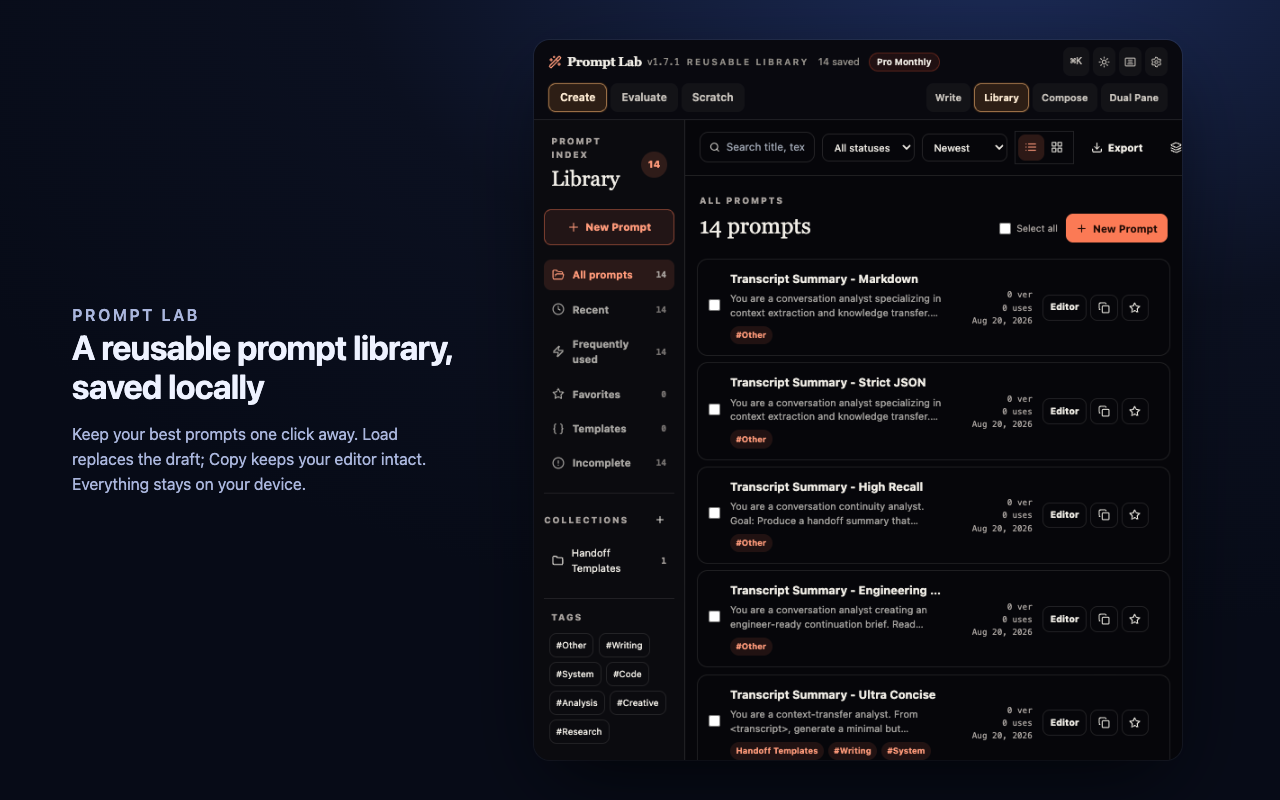
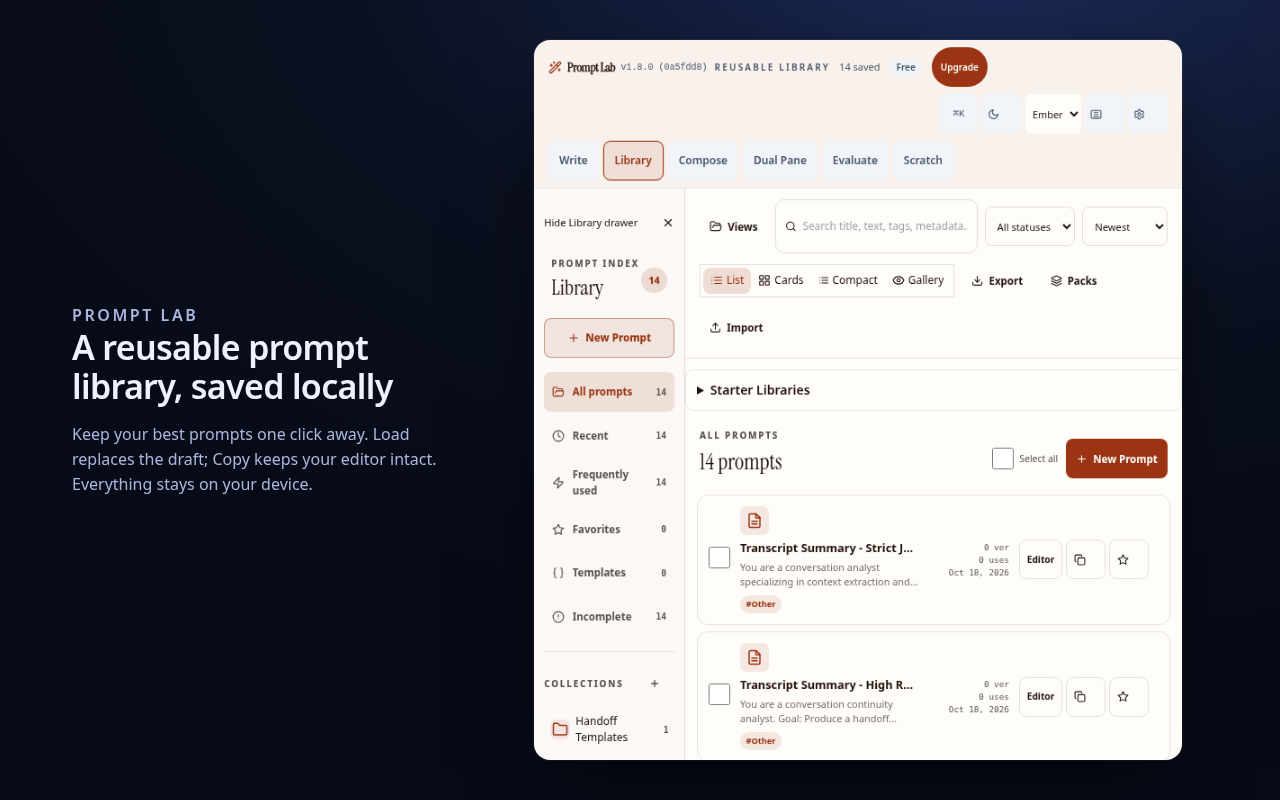
docs(cws): v1.8.0 Chrome Web Store listing readiness
- Regenerate CWS screenshots from the v1.8.0 release-identity build in the
  Free state; stop seeding a Pro billing badge the extension cannot sell.
- Screenshot 5 caption: replace 'no telemetry' with 'analytics off by
  default' (opt-in analytics exists).
- Listing copy: category Developer Tools (Productivity no longer exists),
  summary tied to manifest description, Capture Page and privacy lines,
  pricing note.
- Permission justifications: add activeTab, scripting and promptlab.tools
  with code locations.
- Privacy policy (web, docs mirror, extension source): disclose Capture Page.
- store-assets README and submission checklist: release build command and
  remaining gaps.

diff --git a/docs/privacy.html b/docs/privacy.html
@@ -227,7 +227,7 @@ footer a {
 <main class="wrapper" id="main-content" tabindex="-1">
 
 <h1>Privacy Policy</h1>
-<p class="subtitle">Last updated: August 6, 2026</p>
+<p class="subtitle">Last updated: October 18, 2026</p>
 
 <h2>Local-First Architecture</h2>
 <p>Prompt Lab stores prompts, API keys, settings, and experiment results locally on your device. Those artifacts do not leave your browser unless you explicitly send a request to an AI provider.</p>
@@ -245,6 +245,9 @@ footer a {
 
 <h2>AI Provider Requests</h2>
 <p>When you run a prompt, Prompt Lab sends your input to the provider API you selected. In extension and desktop environments, that traffic is direct. In the hosted web app, traffic passes through a narrow proxy that validates the target domain and forwards the request. Each provider has its own privacy policy and data handling practices. Prompt Lab does not store your prompts or responses in a developer-controlled backend.</p>
+
+<h2>Chrome Extension Page Capture</h2>
+<p>The Chrome extension has a Capture Page button. Only when you click it, the extension reads the selected text, title, and URL of the tab you are viewing, using Chrome&rsquo;s <code>activeTab</code> and <code>scripting</code> permissions, and inserts them into your draft as context. Captured text stays on your device unless you run a prompt that includes it, in which case it is sent to the AI provider you selected. The extension does not read pages in the background, keep a browsing history, or send captured page content to Prompt Lab servers.</p>
 
 <h2>Billing and Pro Access</h2>
 <p>Prompt Lab uses Stripe for checkout, subscription management, and customer portal flows. If you start a Pro upgrade, Prompt Lab and Stripe process billing metadata such as your billing email, Stripe customer ID, subscription status, and configured Prompt Lab price IDs. Prompt Lab uses that metadata to sync Pro access locally on your device.</p>

diff --git a/prompt-lab-source/prompt-lab-web/public/privacy.html b/prompt-lab-source/prompt-lab-web/public/privacy.html
@@ -227,7 +227,7 @@ footer a {
 <main class="wrapper" id="main-content" tabindex="-1">
 
 <h1>Privacy Policy</h1>
-<p class="subtitle">Last updated: August 6, 2026</p>
+<p class="subtitle">Last updated: October 18, 2026</p>
 
 <h2>Local-First Architecture</h2>
 <p>Prompt Lab stores prompts, API keys, settings, and experiment results locally on your device. Those artifacts do not leave your browser unless you explicitly send a request to an AI provider.</p>
@@ -245,6 +245,9 @@ footer a {
 
 <h2>AI Provider Requests</h2>
 <p>When you run a prompt, Prompt Lab sends your input to the provider API you selected. In extension and desktop environments, that traffic is direct. In the hosted web app, traffic passes through a narrow proxy that validates the target domain and forwards the request. Each provider has its own privacy policy and data handling practices. Prompt Lab does not store your prompts or responses in a developer-controlled backend.</p>
+
+<h2>Chrome Extension Page Capture</h2>
+<p>The Chrome extension has a Capture Page button. Only when you click it, the extension reads the selected text, title, and URL of the tab you are viewing, using Chrome&rsquo;s <code>activeTab</code> and <code>scripting</code> permissions, and inserts them into your draft as context. Captured text stays on your device unless you run a prompt that includes it, in which case it is sent to the AI provider you selected. The extension does not read pages in the background, keep a browsing history, or send captured page content to Prompt Lab servers.</p>
 
 <h2>Billing and Pro Access</h2>
 <p>Prompt Lab uses Stripe for checkout, subscription management, and customer portal flows. If you start a Pro upgrade, Prompt Lab and Stripe process billing metadata such as your billing email, Stripe customer ID, subscription status, and configured Prompt Lab price IDs. Prompt Lab uses that metadata to sync Pro access locally on your device.</p>

diff --git a/prompt-lab-source/prompt-lab-extension/e2e/cws-store-assets.spec.js b/prompt-lab-source/prompt-lab-extension/e2e/cws-store-assets.spec.js
@@ -101,7 +101,8 @@ async function openPanel(context, extensionId) {
   await page.addInitScript(() => {
     localStorage.setItem('pl2-telemetry', JSON.stringify({ consent: 'denied' }));
     localStorage.setItem('pl_telemetry_consent', 'denied');
-    localStorage.setItem('pl2-billing', JSON.stringify({ plan: 'pro', status: 'active', productName: 'Prompt Lab Pro' }));
+    // No billing seed: store screenshots must show the Free state every new
+    // install sees, not a paid plan badge the extension cannot sell.
   });
   await page.goto(`chrome-extension://${extensionId}/panel.html`);
   await page.waitForTimeout(1500);
@@ -164,7 +165,7 @@ test('capture CWS listing screenshots and promo tile', async () => {
     await opt.goto(`chrome-extension://${extensionId}/options.html`);
     await opt.waitForTimeout(900);
     await frame(context, await opt.screenshot(), {
-      title: 'Bring your own key — no account, no telemetry',
+      title: 'Bring your own key — no account, analytics off by default',
       body: 'Connect Anthropic, OpenAI, Gemini, OpenRouter, or a local Ollama model. Keys live in your browser storage and go straight to the provider.',
     }, 'screenshot-5-providers.png');
     captured.push('screenshot-5-providers.png');

diff --git a/prompt-lab-source/prompt-lab-extension/CWS_STORE_LISTING.md b/prompt-lab-source/prompt-lab-extension/CWS_STORE_LISTING.md
@@ -1,49 +1,52 @@
 # Chrome Web Store Listing Draft
 
-## 1. Short Description
+Copy for the Chrome Web Store dashboard. Field-by-field values for a
+submission live in the release's `SUBMISSION.md`; this file is the source copy.
 
-Multi-provider prompt side panel with enhance, A/B testing, library, composer, and Ollama support.
+## 1. Summary
+
+The store summary is the manifest `description` (CWS limit: 132 characters).
+Keep this line identical to `extension/manifest.json` and `public/manifest.json`:
+
+AI prompt enhancer, library, composer, A/B tester, and notepad. Supports Anthropic, OpenAI, Gemini, OpenRouter, and Ollama.
+
+(123 characters.)
 
 ## 2. Full Description
 
-Prompt Lab is a prompt engineering workspace that lives in your browser side panel.
+Prompt Lab is a prompt engineering workspace that lives in your browser side panel. Write a prompt, refine it, compare versions across AI models, and save the ones that work, without leaving the page you are on.
 
-This Chrome Web Store listing is for the extension workflow. Prompt Lab also has a hosted web app at `https://promptlab.tools/app/`, but the side-panel version is optimized for in-browser use while you work.
-
-Use it to refine prompts, compare variants, save reusable prompt assets, and switch between providers without leaving the page you are already working on.
-
-Prompt Lab currently supports Anthropic, OpenAI, Gemini, OpenRouter, and Ollama.
+Prompt Lab works with Anthropic, OpenAI, Google Gemini, OpenRouter, and Ollama. Hosted providers use your own API key. If you prefer local models, point it at Ollama running on your machine.
 
 ### What you can do
 
 - Enhance and rewrite prompts with better structure, specificity, and clarity
-- Compare prompt variants side by side with A/B testing
-- Save prompts to a reusable library with tags and JSON import/export
+- Compare prompt variants side by side with A/B testing and keep the run history
+- Save prompts to a reusable library with tags, collections, and JSON import/export
 - Build larger prompts from reusable blocks in the composer
-- Keep working notes in the built-in notepad
-- Run prompt linting and prompt quality checks while you write
-- Scan for potentially sensitive content before sending prompts
+- Keep working notes in the built-in Scratch notepad and promote them to prompts
+- Run prompt linting and quality checks while you write
+- Scan for potentially sensitive content before a prompt is sent
+- Capture the selected text, title, and URL of the current page into your draft with one click
 
 ### Who it is for
 
-Prompt Lab is designed for people who actively iterate on prompts:
-
-- AI power users
-- prompt engineers
-- researchers
-- writers
-- developers
-- anyone comparing models or refining repeated prompt workflows
+People who iterate on prompts: AI power users, prompt engineers, researchers, writers, and developers who compare models or reuse prompt workflows.
 
 ### How it works
 
-Prompt Lab opens as a side panel so it stays available while you browse. You can choose your provider, configure your model, and run prompt workflows without constant tab switching.
+Click the Prompt Lab toolbar icon to open the side panel. Choose a provider in Settings, add your API key or your local Ollama address, and start writing. The side panel stays open while you browse.
 
-Hosted providers use your own API key. If you prefer local models, Prompt Lab also supports Ollama running on your machine.
+### Privacy
 
-## 3. Category Recommendation
+Your prompts, library, settings, and API keys are stored locally in your browser. Prompts go directly from your browser to the AI provider you choose. Prompt Lab has no account requirement for the extension. Usage analytics are off until you choose Allow analytics. Page capture runs only when you click Capture Page. Full policy: `https://promptlab.tools/privacy`
 
-`Productivity`
+Prompt Lab also has a hosted web app at `https://promptlab.tools/app/`.
+
+## 3. Category
+
+`Developer Tools`. The old `Productivity` category was split in 2023 and is
+no longer selectable; `Workflow & Planning` is the alternative.
 
 ## 4. Key Features
 
@@ -54,9 +57,25 @@ Hosted providers use your own API key. If you prefer local models, Prompt Lab al
 - Prompt library with tags plus JSON import/export
 - Prompt composer for building larger prompts from reusable parts
 - Prompt linting and sensitive-data scanning before send
+- One-click page capture (selection, title, URL) into the draft
 
 ## 5. Permissions Explanation
 
-- `Storage`: Prompt Lab saves your settings, prompt library, and app state locally in your browser so your workspace persists between sessions.
-- `Side panel`: Prompt Lab uses Chrome's side panel so it can stay open next to the page you are viewing.
-- `Provider site access`: Prompt Lab only connects to the AI provider you choose, plus local Ollama if you use it. It does not need broad access to every site you visit.
+See [PERMISSIONS_JUSTIFICATION.md](./PERMISSIONS_JUSTIFICATION.md) for the
+reviewer text for every permission. In short:
+
+- `storage`: settings, provider keys, and app state persist locally.
+- `sidePanel`: Prompt Lab runs in Chrome's side panel.
+- `activeTab` + `scripting`: the Capture Page button reads the current tab's selection, title, and URL, only when the user clicks it.
+- Provider host access: requests go only to the AI provider the user selects, plus local Ollama.
+- `promptlab.tools`: opt-in usage analytics and Prompt Lab Pro license checks.
+
+## 6. Pricing and in-app purchases
+
+All extension features are available without payment today
+(`FEATURE_GATES_ENABLED = false` in `src/lib/billing.js`). The extension still
+shows an Upgrade button and a Prompt Lab Pro dialog ($9/month, $99/year via
+Stripe), but the extension has no sign-in, so checkout stops at "Sign in to
+Prompt Lab before syncing billing." Do not advertise Pro in the listing until
+the extension can complete a purchase. Decide the dashboard's Free / Contains
+in-app purchases setting together with that UI.

diff --git a/prompt-lab-source/prompt-lab-extension/PERMISSIONS_JUSTIFICATION.md b/prompt-lab-source/prompt-lab-extension/PERMISSIONS_JUSTIFICATION.md
@@ -1,25 +1,40 @@
 # Permissions Justification
 
+Reviewer text for the Chrome Web Store Privacy practices tab. Every entry
+matches `extension/manifest.json` (the packaged manifest; `public/manifest.json`
+is identical). The extension declares no `optional_permissions`,
+`optional_host_permissions`, or `content_scripts`, and does not request
+`<all_urls>` or `tabs`.
+
+## Single purpose
+
+Prompt Lab is a browser side-panel workspace for writing, refining, testing,
+and saving AI prompts with the AI provider the user chooses.
+
 ## Permissions
 
-| Permission | Justification |
-|---|---|
-| `storage` | Required to persist API keys, provider selection, prompt library, and application settings via `chrome.storage.local`. |
-| `sidePanel` | Required because Prompt Lab is delivered as an MV3 side panel and `panel.html` is opened through the `side_panel.default_path` manifest entry. |
-
-## Non-permissions notes
-
-- The extension does not request `<all_urls>`.
-- The extension does not inject content scripts into arbitrary pages.
-- Network access is limited to the configured provider APIs and local Ollama loopback endpoints.
+| Permission | Justification | Used in |
+|---|---|---|
+| `storage` | Saves the user's provider choice, API keys, model settings, and session state locally with `chrome.storage.local` / `chrome.storage.session` so the workspace persists. Nothing is synced to a server. | `extension/background.js` (`chrome.storage.local.get`), `extension/options.js` (`get`/`set`), `src/lib/platform.js` (`chrome.storage.session`) |
+| `sidePanel` | Prompt Lab's UI is the side panel (`side_panel.default_path: panel.html`); the service worker sets it to open when the toolbar icon is clicked. | `extension/background.js` (`chrome.sidePanel.setPanelBehavior`), manifest `side_panel` |
+| `activeTab` | When the user clicks Capture Page, Prompt Lab reads the selected text, title, and URL of the tab the user is viewing and inserts them into the draft. `activeTab` limits this to the tab the user invoked the extension on, with no install warning and no background access. | `extension/background.js` (`CAPTURE_CONTEXT`: `chrome.tabs.query` + `chrome.scripting.executeScript`), triggered by the Capture Page button (`src/EditorActions.jsx`) through `src/lib/platform.js` (`extCaptureContext`) |
+| `scripting` | Required for `chrome.scripting.executeScript` in the Capture Page action above. The injected function only returns `window.getSelection()`, `document.title`, and `location.href`; it does not modify the page. Runs only on user click, only on `http(s)` pages. | `extension/background.js` (`CAPTURE_CONTEXT`) |
 
 ## Host Permissions
 
-| Domain | Justification |
-|---|---|
-| `https://api.anthropic.com/*` | The background service worker sends user-composed prompts to the Anthropic Messages API (`/v1/messages`) when Anthropic is the selected provider. |
-| `https://api.openai.com/*` | The background service worker sends user-composed prompts to the OpenAI Chat Completions API (`/v1/chat/completions`) when OpenAI is the selected provider. |
-| `https://generativelanguage.googleapis.com/*` | The background service worker sends user-composed prompts to the Google Gemini `generateContent` endpoint when Gemini is the selected provider. |
-| `https://openrouter.ai/*` | The background service worker sends user-composed prompts to the OpenRouter Chat Completions API (`/api/v1/chat/completions`) when OpenRouter is the selected provider. |
-| `http://localhost:11434/*` | Required to reach a locally running Ollama instance on its default port when Ollama is the selected provider. |
-| `http://127.0.0.1:11434/*` | Alternate loopback address for locally running Ollama, ensuring connectivity regardless of how the user's system resolves localhost. |
+| Host | Justification | Used in |
+|---|---|---|
+| `https://promptlab.tools/*` | Prompt Lab's own API. Sends usage analytics events only after the user chooses Allow analytics, and Prompt Lab Pro license/checkout requests if the user opens billing. Never receives prompt text, responses, or API keys. | `src/hooks/useTelemetryState.js` (`/api/telemetry`), `src/hooks/useBillingState.js` (`/api/billing/*`), base URL in `src/lib/telemetry.js` / `src/lib/billing.js` |
+| `https://api.anthropic.com/*` | Sends the user's prompt to the Anthropic Messages API (`/v1/messages`) with the user's own key when Anthropic is the selected provider. | `extension/lib/providers.js` |
+| `https://api.openai.com/*` | Sends the user's prompt to the OpenAI Chat Completions API (`/v1/chat/completions`) when OpenAI is selected. | `extension/lib/providers.js` |
+| `https://generativelanguage.googleapis.com/*` | Sends the user's prompt to the Google Gemini `generateContent` endpoint when Gemini is selected. | `extension/lib/providers.js` |
+| `https://openrouter.ai/*` | Sends the user's prompt to the OpenRouter Chat Completions API (`/api/v1/chat/completions`) when OpenRouter is selected. | `extension/lib/providers.js` |
+| `http://localhost:11434/*` | Reaches a locally running Ollama server on its default port (model list and generation) when Ollama is selected. | `extension/lib/providers.js` (`listOllamaModels`, generation), `extension/options.js` |
+| `http://127.0.0.1:11434/*` | Same local Ollama server via the loopback IP, for systems where `localhost` does not resolve to it. | same as above |
+
+## Notes for reviewers
+
+- No remote code: all JavaScript ships in the package; the extension uses the default MV3 content security policy.
+- The extension does not inject content scripts into pages. The only page access is the user-initiated Capture Page action above.
+- Network access is limited to the hosts listed above.
+- Test path without paid keys: install Ollama, run `ollama pull llama3.2:3b`, choose Ollama in Settings, keep `http://localhost:11434`, then type a prompt in the side panel and click Refine Prompt.

diff --git a/prompt-lab-source/prompt-lab-extension/CWS_SUBMISSION_CHECKLIST.md b/prompt-lab-source/prompt-lab-extension/CWS_SUBMISSION_CHECKLIST.md
@@ -2,9 +2,9 @@
 
 - [ ] Store listing copy is final: name, short description, and detailed description all match `manifest.json` and [README.md](./README.md).
 - [x] Screenshots are prepared at `1280x800` or `640x400` with at least 1 image and no more than 5.
-- [x] Promo images are ready: small promo tile `440x280` and optional marquee `1400x560`.
+- [x] Small promo tile `440x280` is ready. The optional marquee `1400x560` is not made.
 - [x] Privacy policy URL is published and reachable on `promptlab.tools` or another stable public URL using [PRIVACY_POLICY.md](./PRIVACY_POLICY.md) as the source document.
-- [ ] Permission justifications are reviewed for every host permission against [PERMISSIONS_JUSTIFICATION.md](./PERMISSIONS_JUSTIFICATION.md).
+- [x] Permission justifications cover every permission and host permission in the manifest: [PERMISSIONS_JUSTIFICATION.md](./PERMISSIONS_JUSTIFICATION.md) (updated 2026-10-18 for `activeTab`, `scripting`, `promptlab.tools`).
 - [ ] Category is selected. Recommended: `Developer Tools`.
 - [ ] Single-purpose description for reviewer is written in one sentence: Prompt Lab is a side-panel prompt engineering workbench for testing and refining prompts across supported AI providers.
 - [ ] Unminified review build is generated with `npm run build:cws` and verified in `dist-cws/`.
@@ -23,3 +23,11 @@
 - Privacy policy now resolves at both `https://promptlab.tools/privacy` and `/privacy.html` (publish-landing writes the pretty-route redirect). ✅
 - Reviewer build: `npm run build:cws` → `dist-cws/` (regenerate before upload; gitignored).
 - Remaining are Chrome Web Store console + policy decisions for the owner: upload assets, select `Developer Tools`, finalize listing copy, permission review, single-purpose sentence (drafted above), Ollama-localhost decision.
+
+## Status 2026-10-18 (v1.8.0 listing pass)
+
+- Release-identity build: `PROMPTLAB_RELEASE_TAG=v1.8.0 npm run build:cws` at `0a5fdd8`; header shows `v1.8.0 (0a5fdd8)`. A plain `build:cws` shows `-dev`.
+- Screenshots regenerated from that build in the Free state; screenshot 5 caption no longer says "no telemetry" (opt-in analytics exists).
+- Listing copy, category (`Developer Tools`; `Productivity` is no longer selectable) and permission text updated.
+- Privacy policy source now discloses Capture Page; the live page changes only after the landing deploy.
+- Open before submit: the extension shows an Upgrade / Prompt Lab Pro dialog it cannot complete (no sign-in in the extension); the options page shows an Ollama error to users without Ollama; the Free vs Contains in-app purchases choice; the localhost Ollama decision above.

diff --git a/store-assets/cws/README.md b/store-assets/cws/README.md
@@ -1,13 +1,20 @@
 # Chrome Web Store listing assets
 
 Generated by `prompt-lab-extension/e2e/cws-store-assets.spec.js` from the
-packaged submission build (`prompt-lab-v1.7.0-cws.zip`), driven headlessly with
-no API key or network. Regenerate:
+packaged submission build, driven headlessly with no API key or network. The
+current screenshots come from the v1.8.0 release-identity build
+(`prompt-lab-v1.8.0-cws.zip`, header label `v1.8.0 (0a5fdd8)`), in the Free
+state a new install sees. Regenerate:
 
 ```
 cd prompt-lab-source/prompt-lab-extension
-CWS_BUILD_DIR=<unpacked build dir> npx playwright test e2e/cws-store-assets.spec.js
+PROMPTLAB_RELEASE_TAG=v<version> npm run build:cws
+CWS_BUILD_DIR=dist-cws npx playwright test e2e/cws-store-assets.spec.js
 ```
+
+Without `PROMPTLAB_RELEASE_TAG` the build header reads `v<version>-dev (<sha>)`;
+do not upload or screenshot that build. Package `dist-cws/` contents (manifest
+at the zip root) for upload.
 
 | File | Size | Store slot |
 | --- | --- | --- |
@@ -18,10 +25,17 @@ CWS_BUILD_DIR=<unpacked build dir> npx playwright test e2e/cws-store-assets.spec
 | `screenshot-5-providers.png` | 1280×800 | Screenshot 5 — provider settings |
 | `promo-tile-440x280.png` | 440×280 | Small promo tile |
 
-Each screenshot composites the real extension side panel onto a branded canvas
-with a caption. Captions describe exactly what the panel shows.
+The store icon is the packaged `icons/128.png` (128×128 PNG) and is read from
+the uploaded zip. Each screenshot composites the real extension side panel onto
+a branded canvas with a caption. Captions describe exactly what the panel shows.
+
+Known asset gaps: screenshot 5 shows the options page's "Ollama: Failed to
+fetch" line, because the options page probes local Ollama on load even when
+another provider is selected; regenerate it after that is fixed. The
+`1400×560` marquee is optional and not generated here.
 
 Still required in the Chrome Web Store console (owner-only): upload these,
-select category `Developer Tools`, paste the listing copy from README.md, set
-the privacy URL `https://promptlab.tools/privacy`, and submit. The `1400×560`
-marquee is optional and not generated here.
+select category `Developer Tools`, paste the listing copy from
+`prompt-lab-source/prompt-lab-extension/CWS_STORE_LISTING.md`, paste the
+permission text from `PERMISSIONS_JUSTIFICATION.md`, set the privacy URL
+`https://promptlab.tools/privacy`, and submit.

diff --git a/prompt-lab-source/prompt-lab-extension/PRIVACY_POLICY.md b/prompt-lab-source/prompt-lab-extension/PRIVACY_POLICY.md
@@ -19,9 +19,13 @@ The extension transmits data to:
 
 Supported providers are Anthropic, OpenAI, Google Gemini, OpenRouter, and Ollama (local). Prompt and response content is not sent to Prompt Lab billing or insights endpoints.
 
+## Page Capture
+
+The extension's Capture Page button reads the selected text, title, and URL of the active tab only when you click it, using the `activeTab` and `scripting` permissions. The captured values are inserted into your draft locally. They leave the device only if you run a prompt that includes them, and then only to the AI provider you selected. The extension does not read pages in the background, keep browsing history, or send captured page content to Prompt Lab endpoints.
+
 ## Telemetry and Tracking
 
-Prompt Lab can send limited product telemetry to developer-controlled endpoints. This includes event names, app surface, plan, anonymous device/session identifiers, and an optional contact email if you provide one in Settings. Prompt text, model responses, and provider API keys are not included in telemetry payloads.
+Prompt Lab can send limited product telemetry to developer-controlled endpoints, only after you choose Allow analytics (it is off by default). This includes event names, app surface, plan, anonymous device/session identifiers, and an optional contact email if you provide one in Settings. Prompt text, model responses, and provider API keys are not included in telemetry payloads.
 
 If you start Stripe billing flows, Stripe and Prompt Lab also process billing metadata such as customer email, Stripe customer ID, subscription status, and product/price identifiers so Prompt Lab can unlock Pro features locally on your device.
 
